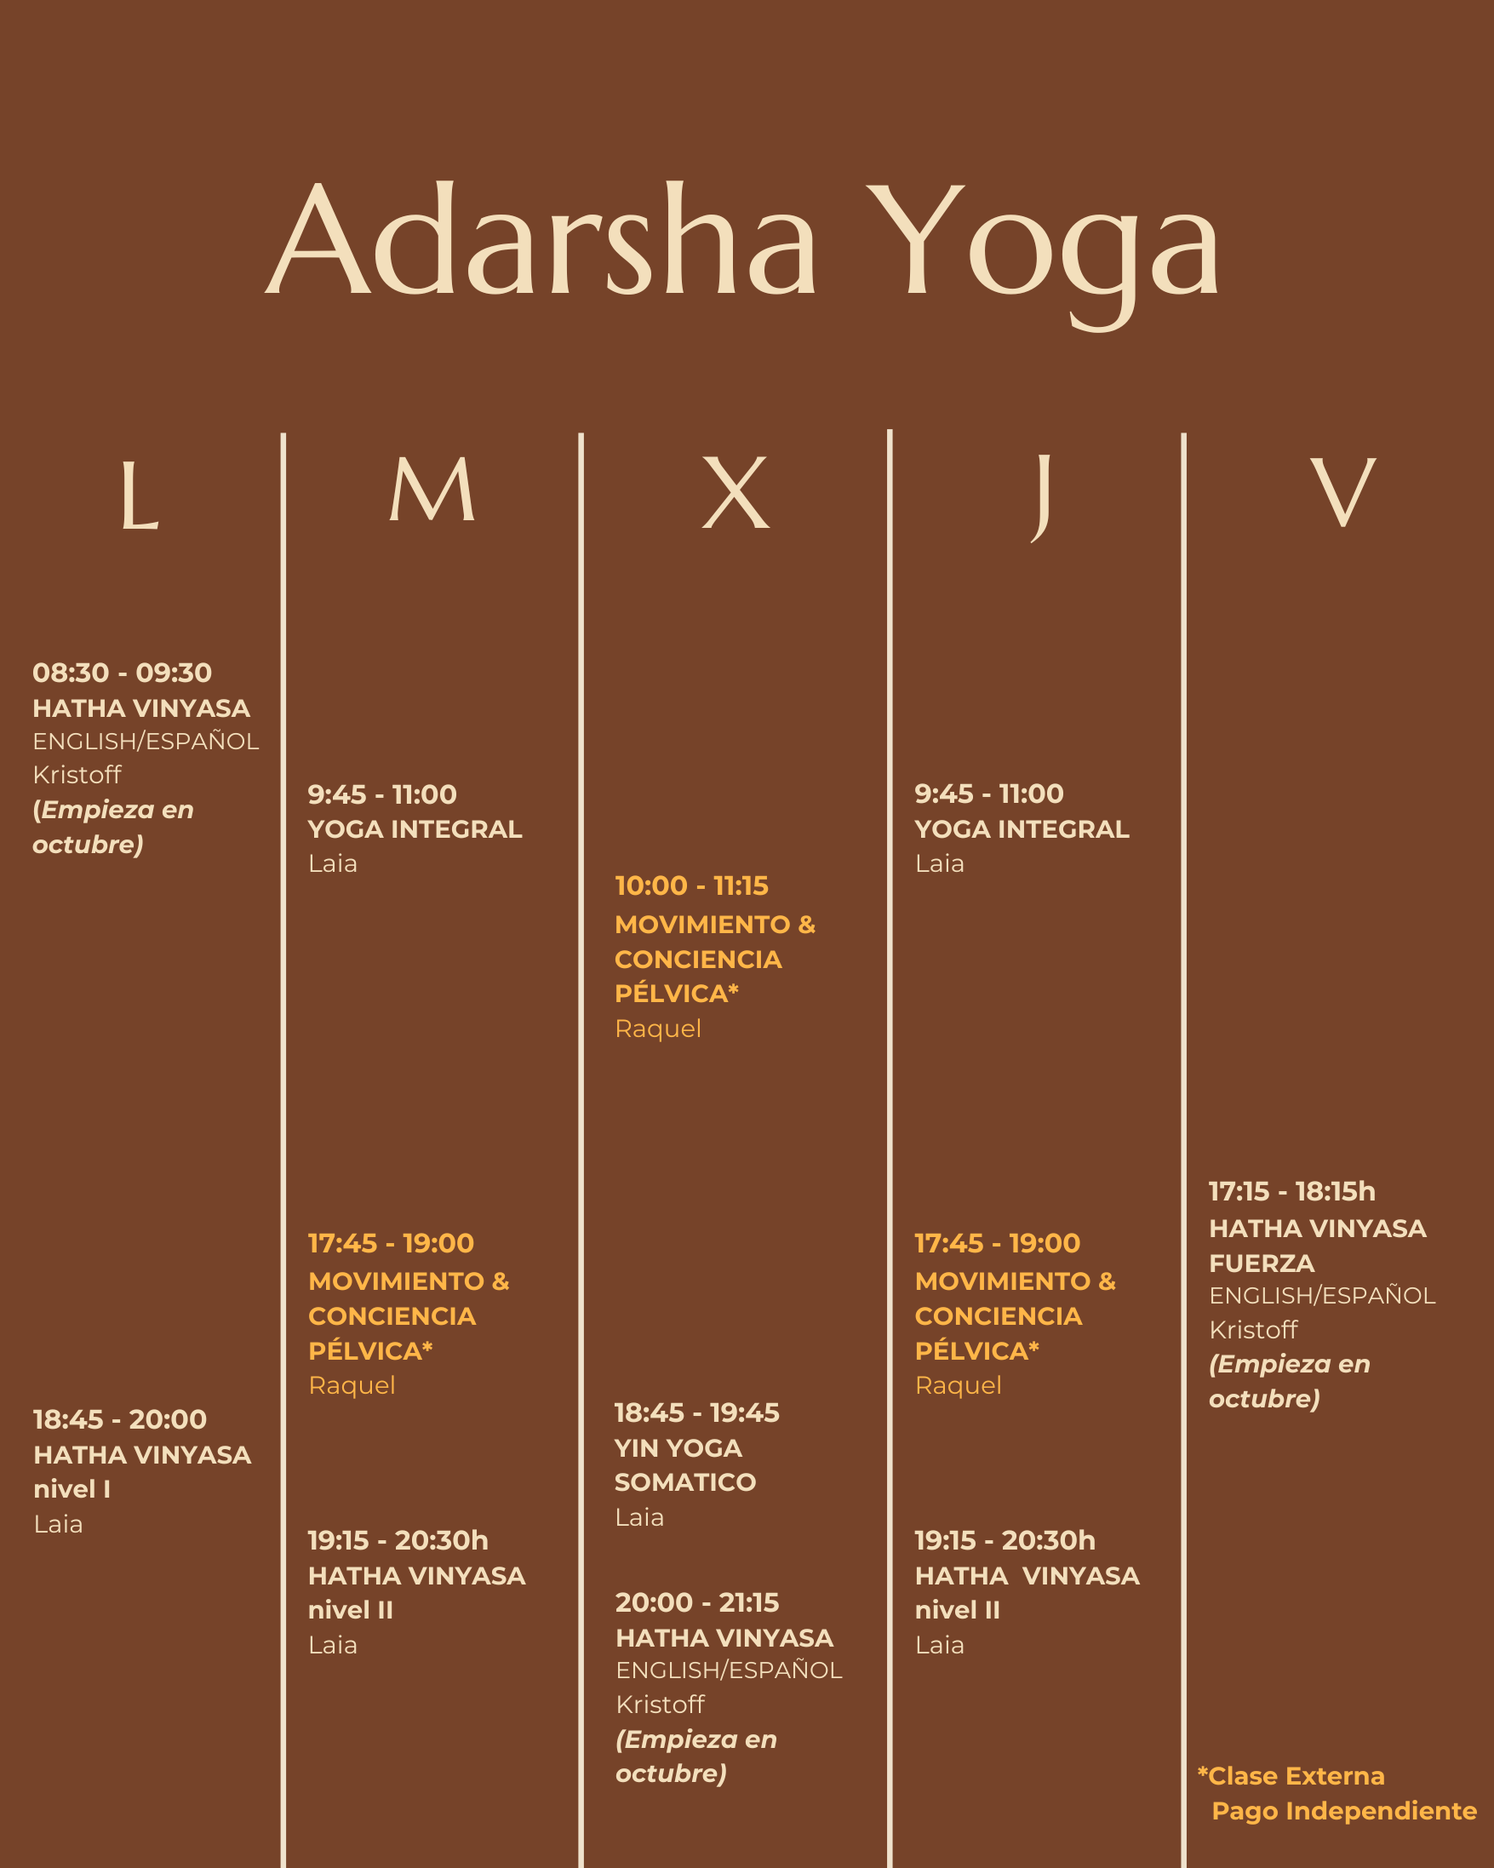
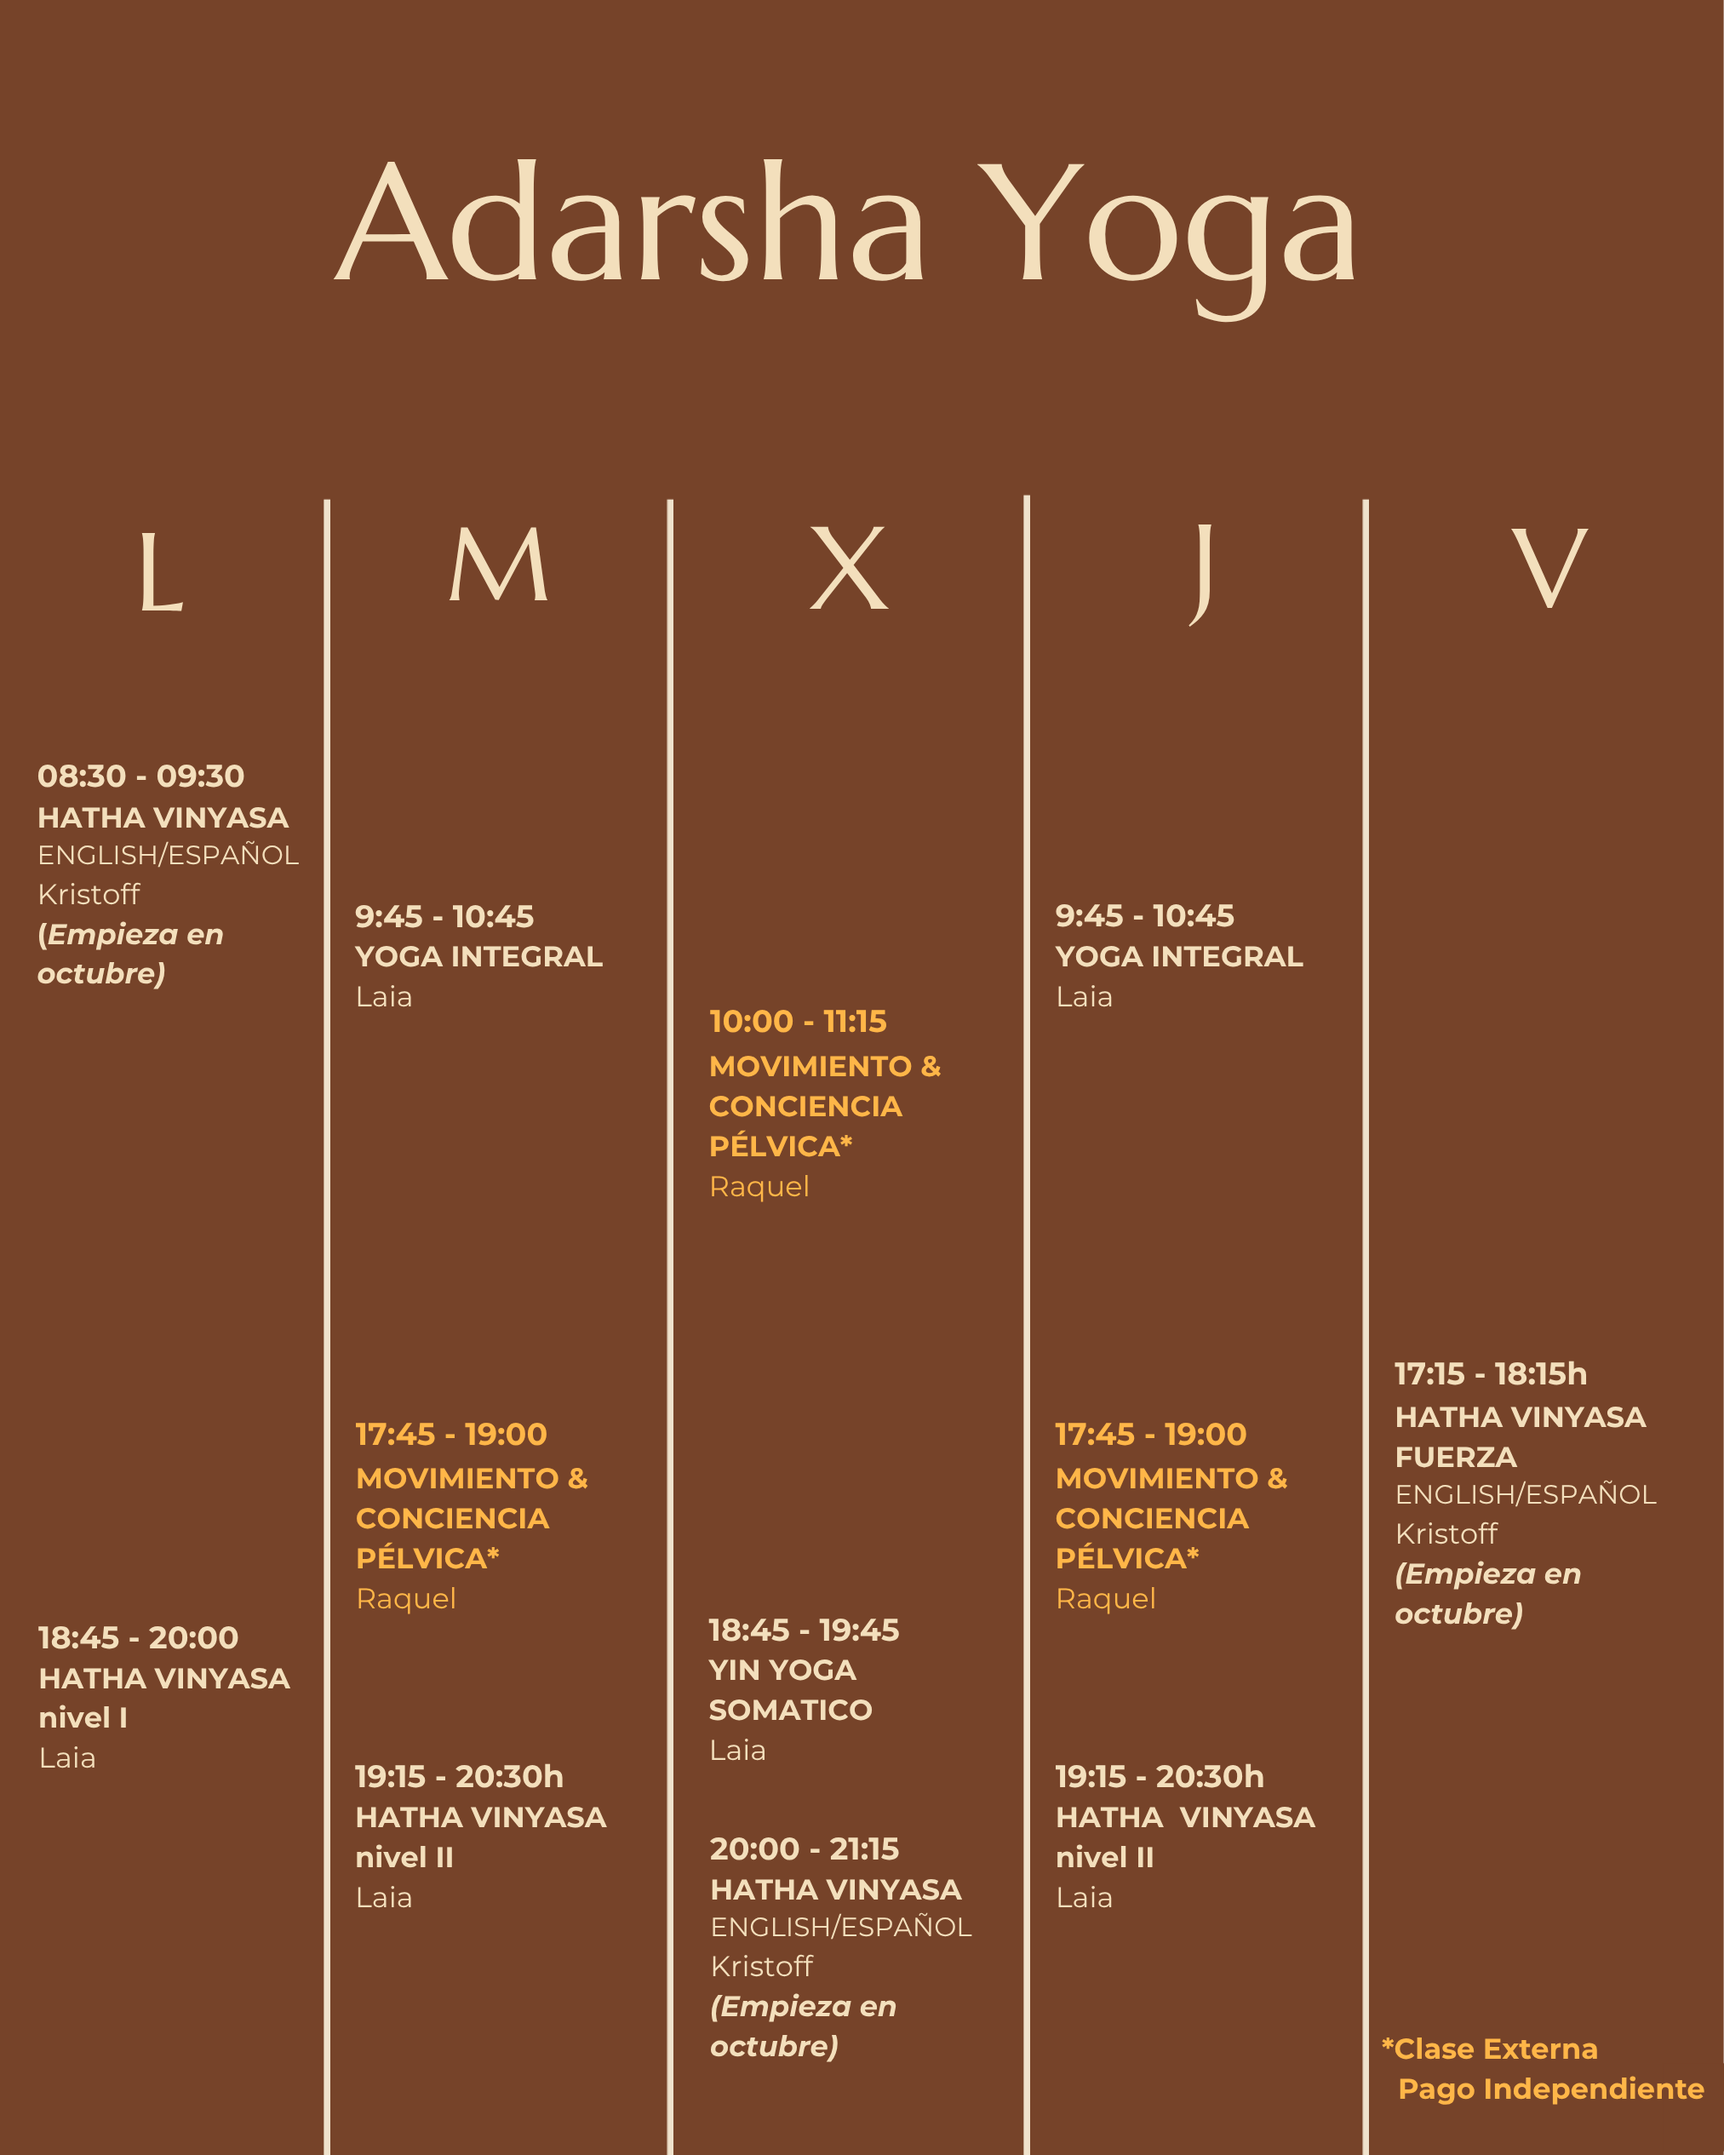
september updates

diff --git a/src/content/site.ts b/src/content/site.ts
@@ -1,5 +1,5 @@
 import logo from "../../assets/adarsha-yoga.png";
-import scheduleCurrent from "../../assets/schedule-current-no-header.png";
+import scheduleCurrent from "../../assets/schedule-current.png";
 import studioWide from "../../assets/57-DSC01123.jpg";
 import studioTall from "../../assets/estudio.jpg";
 import studioShelf from "../../assets/48-DSC01109.jpg";
@@ -35,8 +35,8 @@ export const siteMeta = {
   homeLabel: "Adarsha Yoga inicio",
   copyright: "© Adarsha Yoga 2026",
   announcement: {
-    text: "🏖 El estudio está cerrado del 1/8 - 23/8. ¡Nos vemos el 24 de agosto! 🧘🏽",
-    // href: "/yoga/#precios",
+    text: "🌞 ¡Bienvenidos de vuelta del verano! Descubre nuestras ofertas de septiembre para nuevos alumnos →",
+    href: "/yoga/#precios",
   },
 };
 
@@ -48,7 +48,7 @@ export const contact = {
   contactHeading: "Contacto",
   intro: "Ponte en contacto con nosotros enviándonos un mail :-)",
   email: "hello@espaiadarsha.com",
-  instagram: { prefix: "Instagram:", label: "@espaiadarsha", href: "https://www.instagram.com/espaiadarsha/" },
+  instagram: { prefix: "Instagram:", label: "@adarshayoga.bcn", href: "https://www.instagram.com/adarshayoga.bcn/" },
   mapUrl: "https://www.google.com/maps?q=Espai%20Adarsha%20Yoga%20Studio%2C%20Barcelona&output=embed",
 };
 
@@ -81,7 +81,7 @@ export const navItems = [
 ];
 
 export const homeCopy = {
-  title: "Adarsha Yoga. Un refugio de conexión con el cuerpo y paz en medio de la ciudad.",
+  title: "Adarsha Yoga. Un refugio de yoga, presencia y calma en medio de la ciudad.",
   subtitle: "Somos un estudio íntimo, con grupos reducidos y atención personalizada.",
   body: [
     "Donde la relación entre profesor y alumno es el centro de todo.",
@@ -95,7 +95,7 @@ export const homeCopy = {
   ],
   scheduleCta: "    HORARIO    ",
   scheduleHref: "/yoga/",
-  ofertaCta: "¡OFERTA OTOÑO! 🍂",
+  ofertaCta: "¡OFERTA SEPTIEMBRE! 🧘🏽",
   ofertaHref: "/yoga/#precios",
   approachCta: "Nuestro enfoque",
   approachHref: "/yoga/#metodo",
@@ -136,16 +136,16 @@ export const yogaCopy = {
   ],
   methodTitle: "Un método basado en la progresión",
   method: [
-    { title: "Atención Individualizada", body: "Al trabajar en grupos reducidos, es posible realizar un seguimiento real del progreso de cada alumno, ajustando las posturas y la intensidad según su punto de partida." },
-    { title: "Base Sólida y Segura", body: "Ponemos especial énfasis en la alineación y la respiración. Las sesiones están organizadas por grupos de posturas para preparar el cuerpo de forma progresiva, asegurando que cada movimiento se realice de forma segura." },
-    { title: "Evolución Tangible", body: "Trabajamos con objetivos claros. La intención es que experimentes una mejora constante en tu flexibilidad y fuerza física, evolucionando en las posturas y, sobre todo, en tu bienestar mental." },
+    { title: "Atención Individualizada", body: "Nos importa conocerte y saber desde qué punto partes. Por eso, ofrecemos una sesión individual de 30 minutos a los nuevos alumnos para valorar tus necesidades y adaptar tu integración a las clases. Después, mantenemos el acompañamiento: ofrecemos una sesión de seguimiento cada año para explorar y profundizar más en la práctica." },
+    { title: "Evolución Tangible", body: "Al trabajar en grupos reducidos, realizamos un seguimiento real del progreso de cada alumno, ajustando las posturas y la intensidad según tus necesidades." },
+    { title: "Base Sólida y Segura", body: "Ponemos especial énfasis en la alineación y la respiración. Las clases están organizadas por grupos de posturas para preparar el cuerpo de forma progresiva y segura, permitiendo avanzar con confianza en cada movimiento de la práctica." },
   ],
   specialOffer: {
-    eyebrow: "Oferta Otoño",
+    eyebrow: "Oferta Septiembre",
     title: "Promoción para alumnos nuevos",
-    deadline: "Oferta válida hasta el 30 de septiembre",
+    deadline: "Oferta válida hasta el 30 de septiembre para residentes en Barcelona",
     items: [
-      // "Pack 4 clases grupales: 60€",
+      "Clase de prueba gratis",
       "Semana de prueba por 30€",
     ],
     cta: "Escríbenos y reserva tu primera clase",
@@ -172,12 +172,12 @@ export const yogaCopy = {
   ],
   individualTitle: "Clases individuales adaptadas a tu cuerpo",
   individualEyebrow: "con Laia",
-  individualIntro: "Si buscas un acompañamiento exclusivo para integrar el yoga en tu vida según tus propios ritmos y objetivos, he diseñado dos formas de trabajar juntas/os.",
+  individualIntro: "Si buscas un acompañamiento exclusivo para integrar el yoga en tu vida según tus propios ritmos y objetivos, hemos diseñado dos formas de trabajar juntas/os.",
   individualOptions: [
     { title: "Sesión Individual Estratégica", body: "Ideal para resolver dudas puntuales, si hay algun grupo de posturas que necesitas aprender de forma más profunda o diseñar una secuencia personalizada que puedas practicar de forma autónoma en casa." },
     { title: "Programa de Práctica Personal", body: "Un proceso de acompañamiento profundo con sesiones semanales o quincenales. Trabajaremos de forma constante en tus metas para que experimentes los beneficios del yoga de manera integral y consciente." },
   ],
-  individualClosing: "¿Quieres empezar el programa? Empecemos con una sesión de prueba para conocernos, escuchar tus necesidades y trazar el camino de tu práctica.",
+  individualClosing: "¿Quieres empezar el programa? Empecemos con una sesión para conocernos, escuchar tus necesidades y trazar el camino de tu práctica.",
   officeTitle: "Yoga en la oficina para la salud física y mental de tu equipo",
   officeBody: [
     "La integración del yoga, la meditación y la respiración consciente en la oficina transforma el entorno laboral en un espacio de concentración y bienestar.",
@@ -249,7 +249,7 @@ export const equipoCopy = {
   pageTitle: "Equipo | Adarsha Yoga",
   name: "Adarsha",
   sanskrit: "Ādarśa (आदर्श)",
-  meaning: ['"Adarsha" significa "espejo" en sánscrito.', "Adarsha Yoga: un estudio para mirarse y transformarse desde adentro hacia fuera."],
+  meaning: ['"Adarsha" significa "espejo" en sánscrito.', "Adarsha Yoga: un estudio para observarse y transformarse desde adentro hacia fuera."],
   heading: "Quiénes somos",
   intro: "Cada uno de nosotros aporta su propia experiencia, sensibilidad y estilo, pero compartimos un mismo propósito: acompañarte en tu proceso con cuidado, respeto y de forma cercana.",
   members: [

diff --git a/src/styles/global.css b/src/styles/global.css
@@ -102,7 +102,11 @@ p, h1, h2, h3, h4, h5, h6 { margin: 0; }
 
 /* Yoga */
 .schedule-banner { height: 655px; display: grid; place-items: center; overflow: hidden; background: var(--schedule-brown); }
-.schedule-banner img { width: 604px; height: 605px; object-fit: cover; object-position: center; }
+/* schedule-current.png is 2025x2531. Crop away the "Adarsha Yoga" title band
+   (top 522px) and the stray light column on the right edge, leaving the
+   2023x2009 grid so it frames exactly as before. */
+.schedule-crop { position: relative; width: 604px; aspect-ratio: 2023 / 2009; overflow: hidden; }
+.schedule-crop img { position: absolute; left: 0; top: calc(-100% * 522 / 2009); width: calc(100% * 2025 / 2023); height: auto; }
 .yoga-title { padding: 66px 20px 62px; text-align: center; color: var(--brown); }
 .yoga-title h1 { font: 700 50px/1.2 var(--display); }
 .yoga-title p { max-width: 500px; margin: 42px auto 0; font: italic 400 29px/1.45 var(--display); }
@@ -120,10 +124,10 @@ p, h1, h2, h3, h4, h5, h6 { margin: 0; }
 .special-offer { width: min(440px, 100%); margin: 0 auto; padding: 26px 32px; border: 1px solid rgba(255,255,255,.55); background: #ddcbc0; color: var(--brown); }
 .special-offer p { font: 700 17px/1.2 var(--display); letter-spacing: 0; text-transform: uppercase; }
 .special-offer h2 { margin-top: 7px; font-size: 29px; color: var(--brown); }
-.special-offer-options { display: flex; flex-wrap: wrap; justify-content: center; gap: 0; margin-top: 18px; border-top: 1px solid rgba(118,67,41,.28); border-bottom: 1px solid rgba(118,67,41,.28); }
-.special-offer-options strong { display: grid; place-items: center; min-height: 64px; padding: 12px 24px; font-size: 18px; line-height: 1.35; font-weight: 700; }
-.special-offer-options strong + strong { border-left: 1px solid rgba(118,67,41,.28); }
-.special-offer span { display: block; margin-top: 13px; font-size: 14px; line-height: 1.4; }
+.special-offer-options { display: flex; flex-direction: column; gap: 0; margin-top: 18px; border-top: 1px solid rgba(118,67,41,.28); border-bottom: 1px solid rgba(118,67,41,.28); }
+.special-offer-options strong { display: grid; place-items: center; min-height: 64px; padding: 14px 20px; font-size: 18px; line-height: 1.35; font-weight: 700; text-align: center; text-wrap: balance; }
+.special-offer-options strong + strong { border-top: 1px solid rgba(118,67,41,.28); }
+.special-offer span { display: block; margin-top: 13px; font-size: 14px; line-height: 1.4; text-wrap: balance; }
 .special-offer .btn-outline { margin-top: 16px; border-color: var(--brown); background: var(--brown); color: #fff; }
 .special-offer .btn-outline:hover { background: #000; border-color: #000; color: #fff; }
 .price-columns { display: grid; grid-template-columns: repeat(2, minmax(0, 1fr)); gap: 52px; }
@@ -247,7 +251,7 @@ p, h1, h2, h3, h4, h5, h6 { margin: 0; }
   .page-title-band { padding: 60px 24px 52px; }
   .page-title-band h1 { font-size: 36px; }
   .schedule-banner { height: auto; padding: 0; }
-  .schedule-banner img { width: 100%; height: auto; }
+  .schedule-crop { width: 100%; }
   .yoga-title h1 { font-size: 38px; }
   .yoga-title p { margin-top: 28px; font-size: 24px; }
   .yoga-rhythm { grid-template-columns: 1fr; gap: 36px; }
@@ -260,7 +264,6 @@ p, h1, h2, h3, h4, h5, h6 { margin: 0; }
   .special-offer h2 { font-size: 25px; }
   .special-offer-options { margin-top: 16px; }
   .special-offer-options strong { min-height: 0; padding: 13px 8px; font-size: 16px; }
-  .special-offer-options strong + strong { border-top: 1px solid rgba(118,67,41,.28); border-left: 0; }
   .price-columns { grid-template-columns: 1fr; gap: 30px; }
   .price-column { padding: 0; }
   .method-section { padding: 64px 0; }
